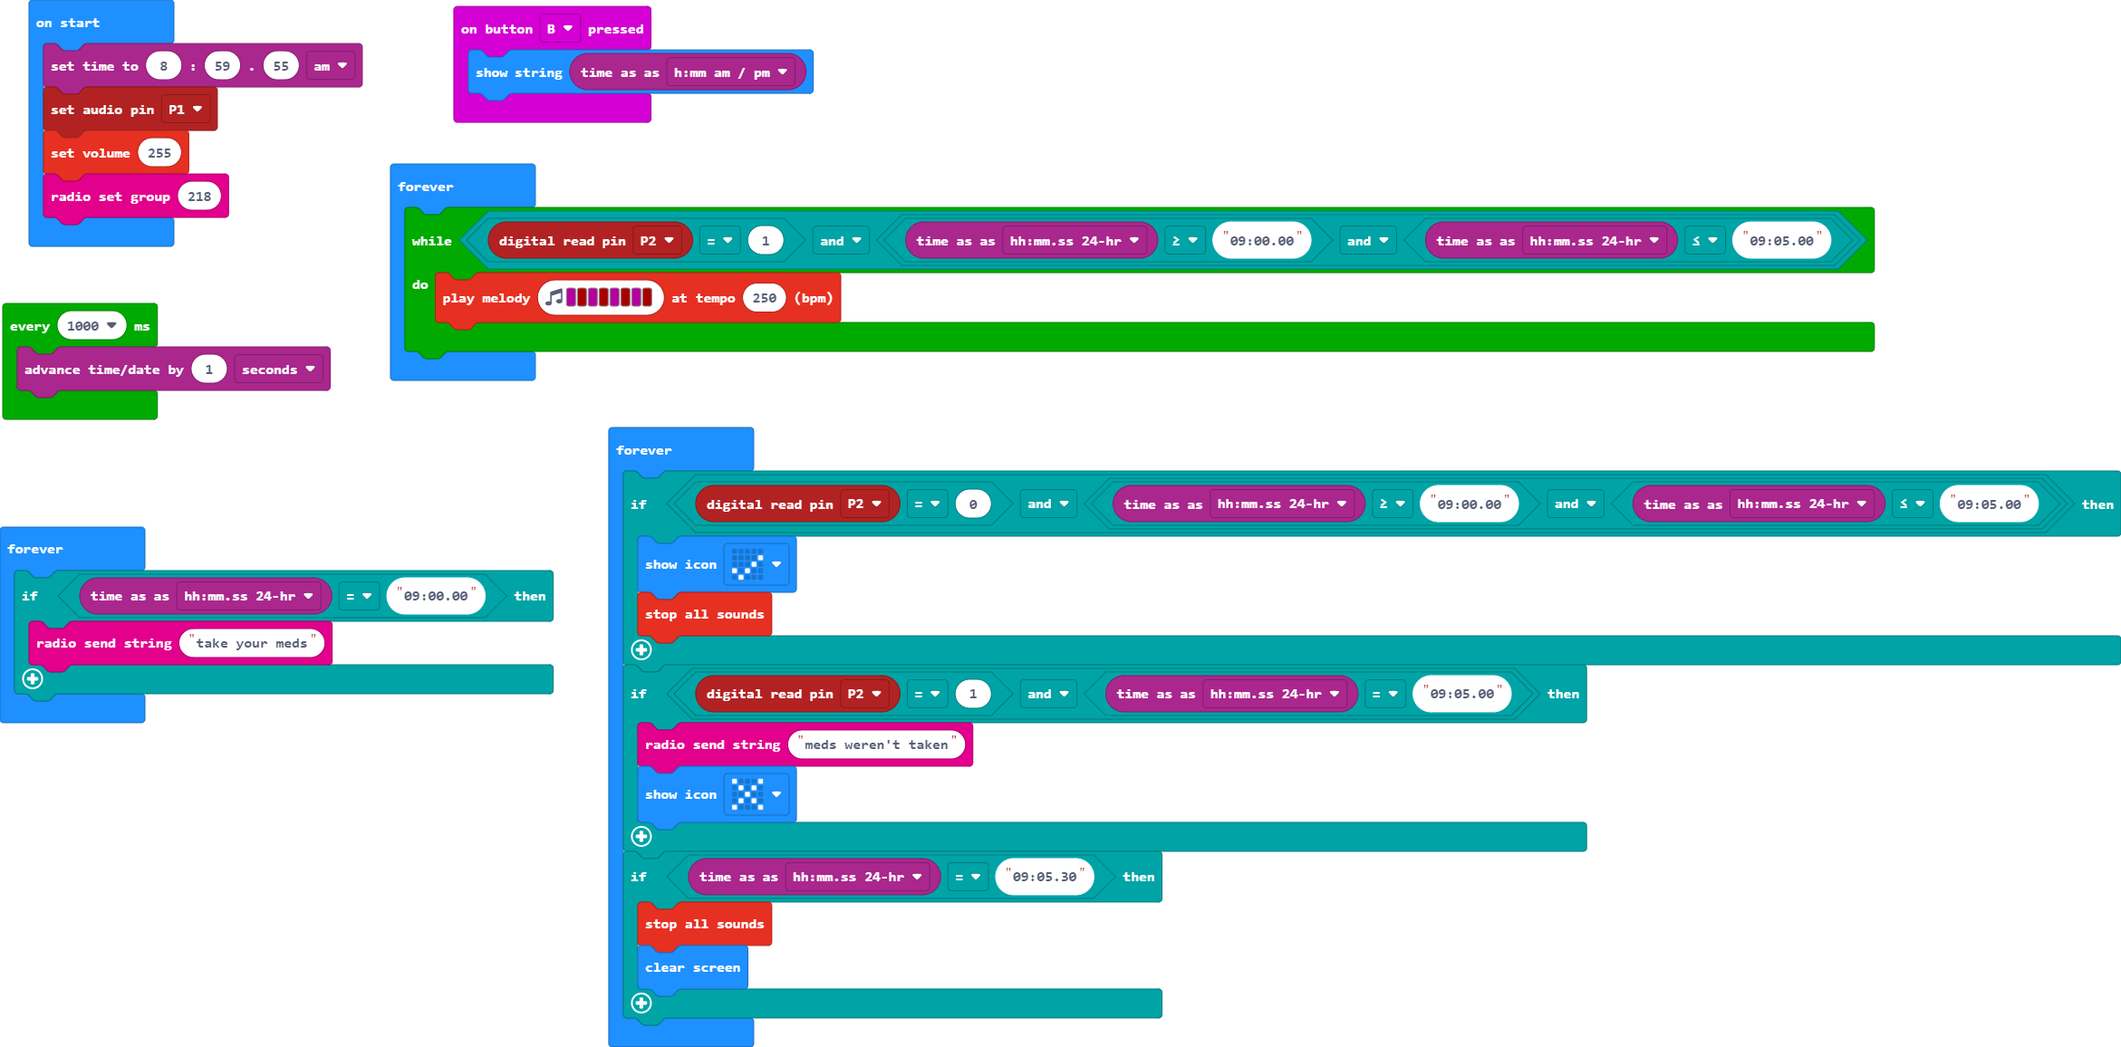
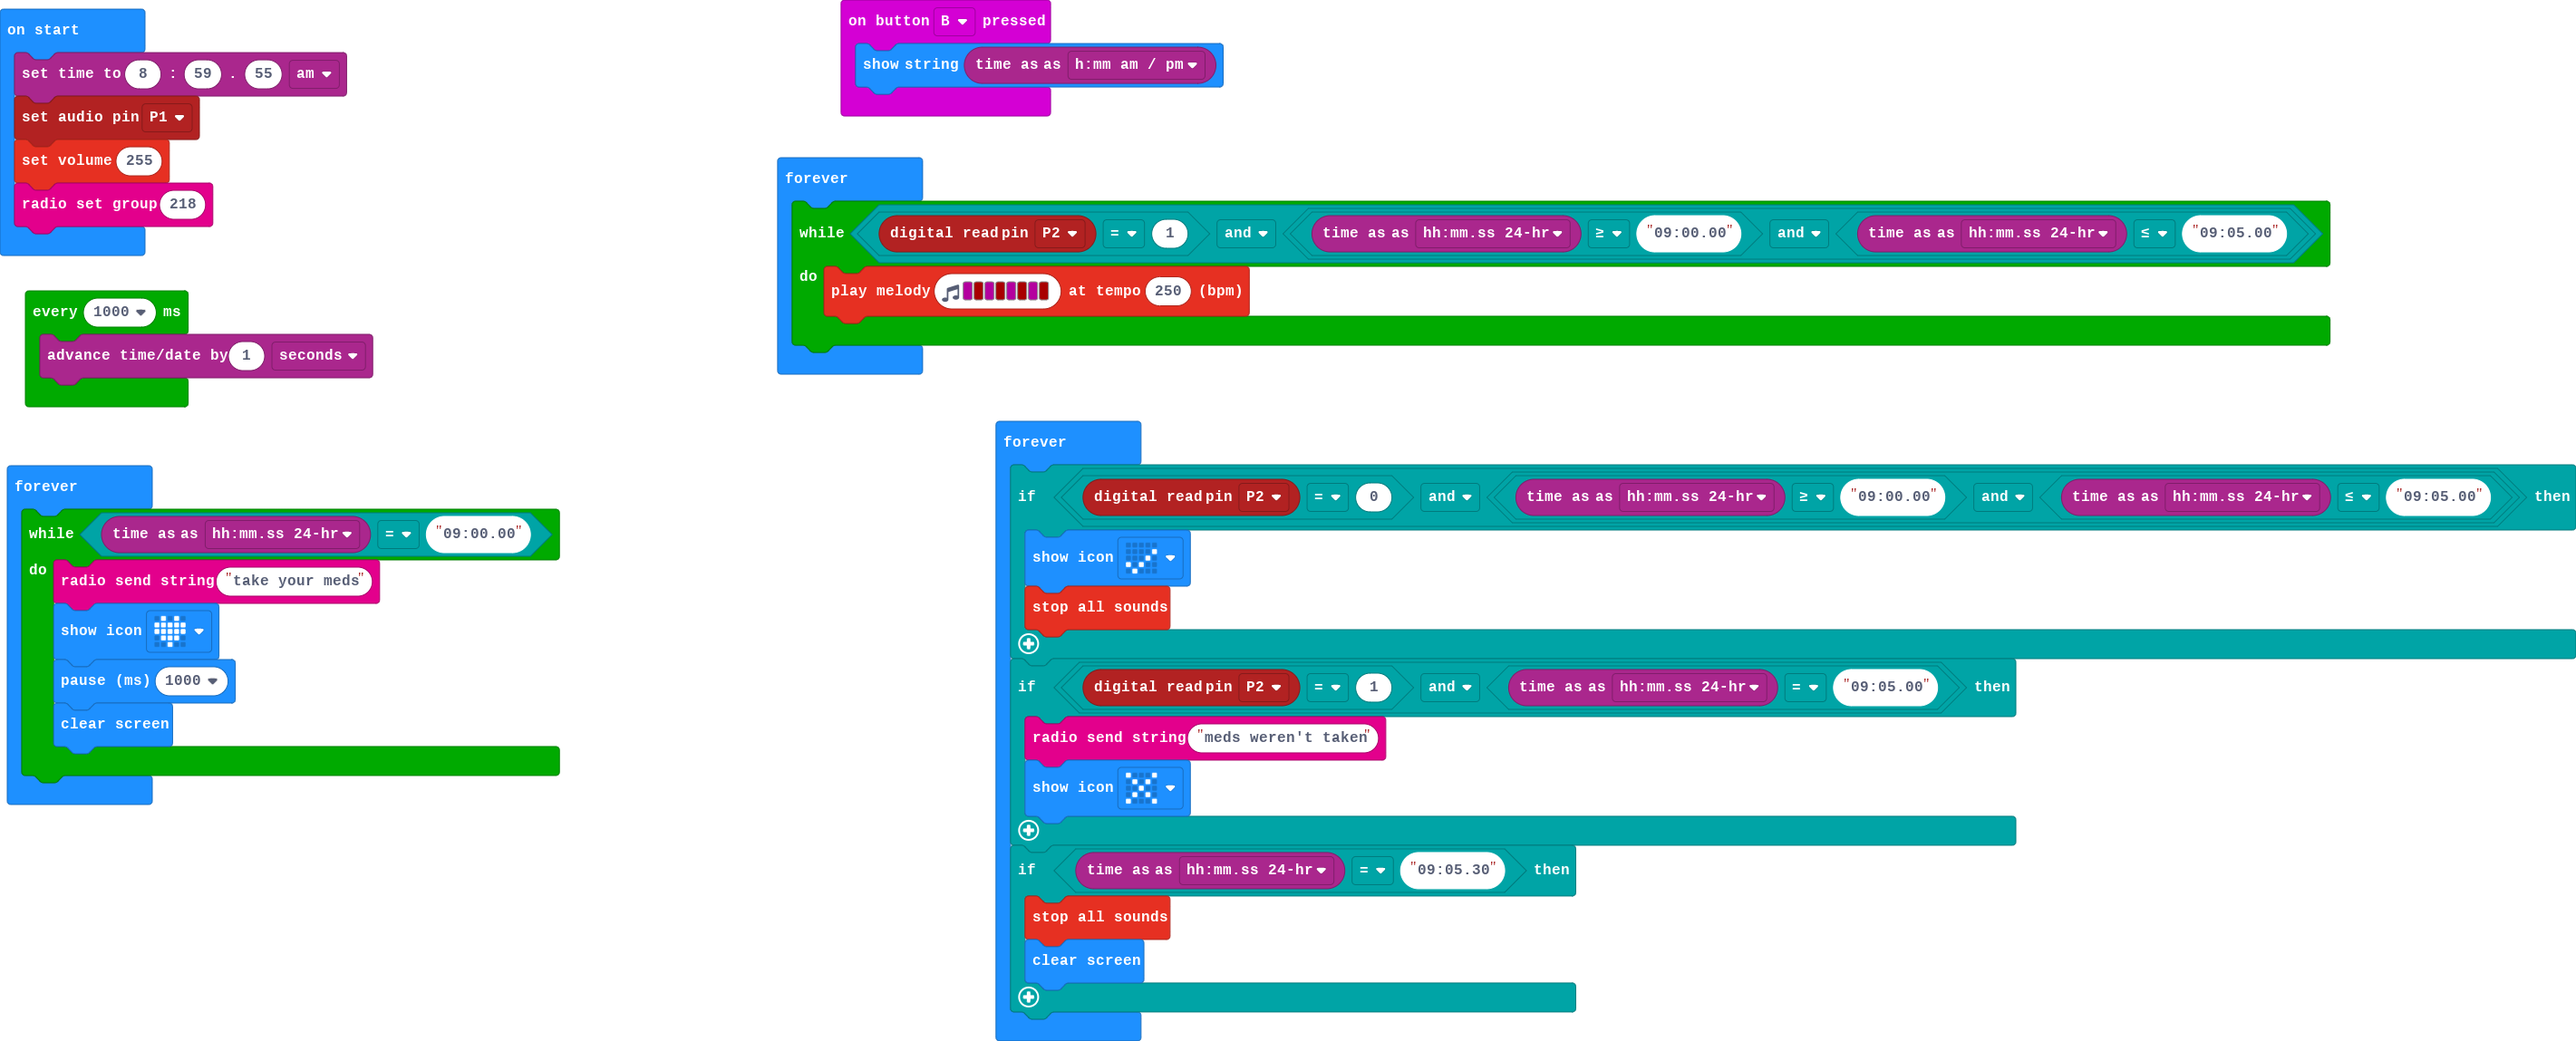
Update main.blocks, main.ts

diff --git a/main.ts b/main.ts
@@ -14,6 +14,14 @@ basic.forever(function () {
     }
 })
 basic.forever(function () {
+    while (timeanddate.time(timeanddate.TimeFormat.HHMMSS24hr) == "09:00.00") {
+        radio.sendString("take your meds")
+        basic.showIcon(IconNames.Heart)
+        basic.pause(1000)
+        basic.clearScreen()
+    }
+})
+basic.forever(function () {
     if (pins.digitalReadPin(DigitalPin.P2) == 0 && (timeanddate.time(timeanddate.TimeFormat.HHMMSS24hr) >= "09:00.00" && timeanddate.time(timeanddate.TimeFormat.HHMMSS24hr) <= "09:05.00")) {
         basic.showIcon(IconNames.Yes)
         music.stopAllSounds()
@@ -25,10 +33,5 @@ basic.forever(function () {
     if (timeanddate.time(timeanddate.TimeFormat.HHMMSS24hr) == "09:05.30") {
         music.stopAllSounds()
         basic.clearScreen()
-    }
-})
-basic.forever(function () {
-    if (timeanddate.time(timeanddate.TimeFormat.HHMMSS24hr) == "09:00.00") {
-        radio.sendString("take your meds")
     }
 })
